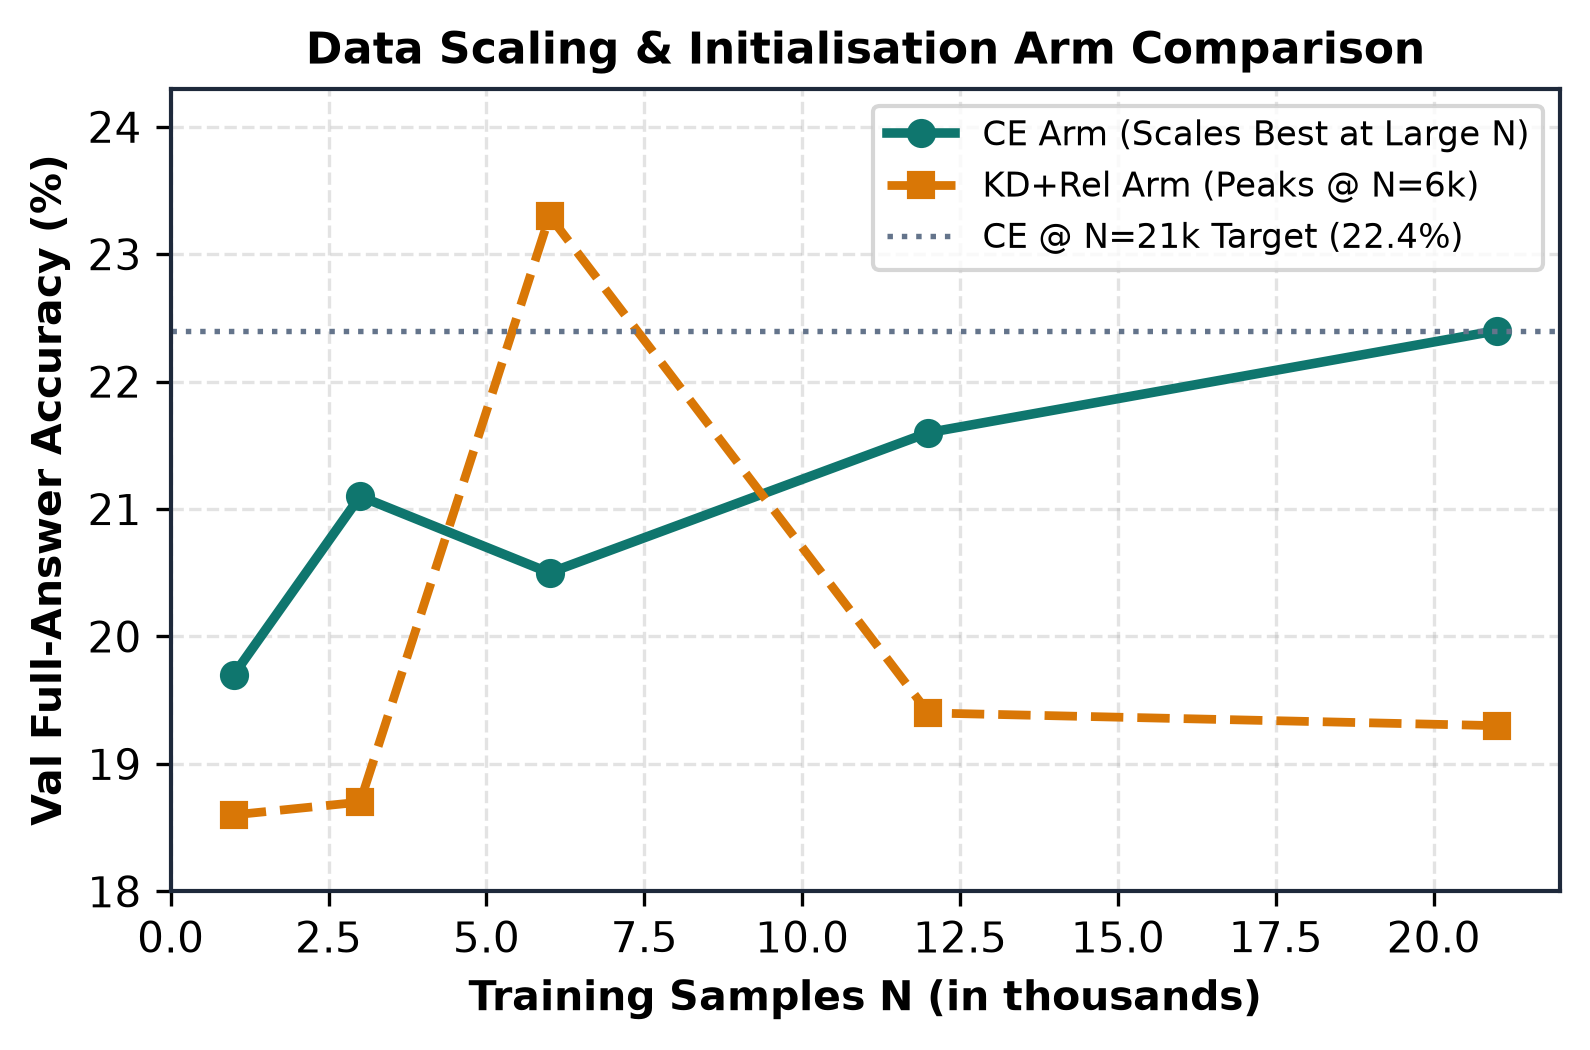
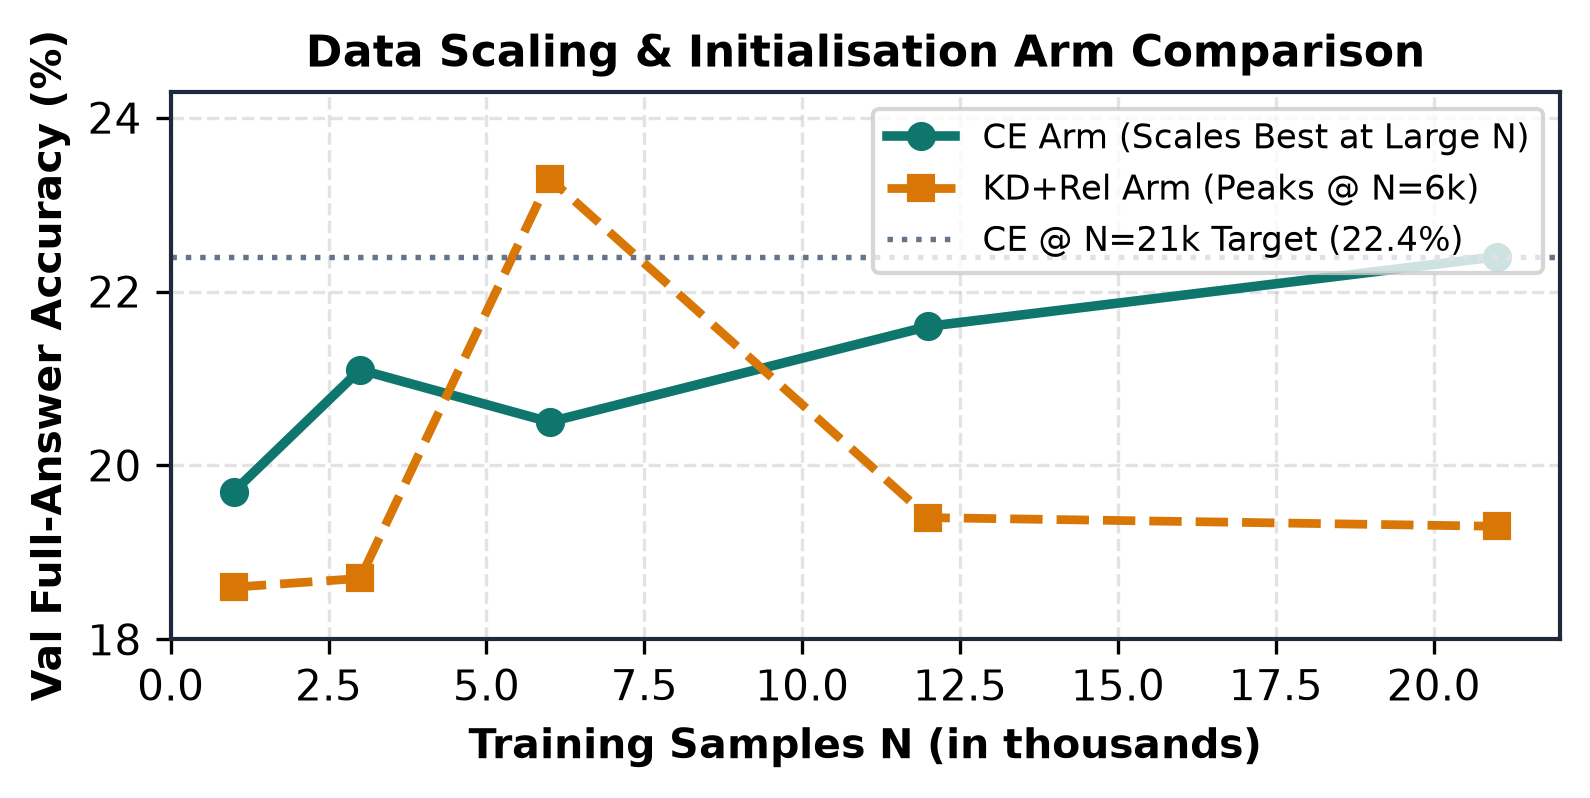
Fix intro question orphan, Sec.3 start, Tab.S2/Fig.S3 whitespace, and trailing lines

Changed region(s): [[0.0, 0.0301, 0.9862, 0.9624]]

diff --git a/paper/sections/X_suppl.tex b/paper/sections/X_suppl.tex
@@ -72,7 +72,7 @@ $9.70$ TFLOPs) to $101.9$\,ms ($19.9\%$ faster, $2.67$ TFLOPs, $-72.5\%$).
 For any text-only input ($I{=}\emptyset$), the rotation context and retrieval
 residual are bypassed (\texttt{rotation\_context} inactive), so every layer
 executes the exact unmodified linear weights $W_{\ell,p}$ of $f_\theta$ with
-$\max|\Delta\text{logits}|=0.0$ and zero extra KV-cache storage or decoding overhead.
+$\max|\Delta\text{logits}|=0.0$ and zero extra KV-cache storage or runtime overhead.
 
 \section{Training Mixtures and Hyperparameters}
 \label{sec:supp_data}
@@ -97,6 +97,7 @@ reference runs and the $44$k strictly audited runs ($1.7$B student,
 $392{\times}392$ max resolution, $b{=}64$, $d_q{=}256$).}
 \label{tab:supp_hparams}
 \footnotesize
+\renewcommand{\arraystretch}{1.22}
 \setlength{\tabcolsep}{3.0pt}
 \resizebox{\columnwidth}{!}{%
 \begin{tabular}{@{}lccc@{}}
@@ -119,11 +120,25 @@ which adds top-$K$ teacher logit KL ($0.5\mathcal{L}_{\mathrm{KD}}$,
 $\tau{=}2.0$) and projected hidden-state cosine alignment
 ($0.1\mathcal{L}_{\mathrm{rel}}$ across matched intermediate layers) during
 Stage~1 and Stage~3; while \texttt{KD+Rel} peaks earlier at $6$k samples,
-\texttt{ce} scales monotonically to $21$k and is used for all $44$k runs. Every
-training run uses AdamW with cosine decay on an exclusive $46$GB GPU.
+\texttt{ce} scales monotonically to $21$k and is used for all $44$k runs. Across
+all $44$k runs, RVE adds $2.40$M parameters ($K{=}4$) and SAVM adds
+lightweight query-conditioned rotation and spatial retrieval heads with the
+student backbone frozen. All runs use AdamW with cosine decay on a $46$GB GPU.
 
 \section{Extended Ablations and Multi-Seed Audits}
 \label{sec:supp_abl}
+
+Tab.~\ref{tab:supp_front}--\ref{tab:supp_fgen} and
+Fig.~\ref{fig:supp_mainres}--\ref{fig:supp_eff} provide the full frontend,
+scaling, depth, format-boundary, multi-seed, and \texttt{--force-gen} results moved from the
+main paper. In Tab.~\ref{tab:supp_v6seeds}, when an external frozen ViT supplies
+mature features (\emph{Tower}), continuing \texttt{CA-Only} ($R_0$) remains a
+competitive reference ($19.89\%$ Avg6), whereas bounded multi-frequency
+\texttt{qcond} rotations drive consistent $R_1{\to}R_2{\to}R_3$ multi-seed gains
+($19.31\%{\to}19.52\%{\to}19.61\%$ Avg6), top single-seed and \texttt{--force-gen}
+performance ($R_2$ $20.18\%$ Avg6; $R_3$ $40.89\%$/$41.33\%$ MC2 in
+Tab.~\ref{tab:supp_fgen}), and prove decisive once the external vision tower is
+removed ($S_2$ over $F_2$: $1.155$ vs.\ $1.835$ CE, $40.8\%$ vs.\ $26.4\%$ EM).
 
 \begin{figure*}[t]
 \centering
@@ -311,18 +326,6 @@ Unbounded Rot ($A_3$)   & 13.07 & 10.52 &  8.20 & 11.79 & \textbf{99.97\%} &  0.
 \bottomrule
 \end{tabular}}
 \end{table}
-
-Tab.~\ref{tab:supp_front}--\ref{tab:supp_fgen} and
-Fig.~\ref{fig:supp_mainres}--\ref{fig:supp_eff} provide the full frontend,
-scaling, depth, format-boundary, multi-seed, and \texttt{--force-gen} results moved from the
-main paper. In Tab.~\ref{tab:supp_v6seeds}, when an external frozen ViT supplies
-mature features (\emph{Tower}), continuing \texttt{CA-Only} ($R_0$) remains a
-competitive reference ($19.89\%$ Avg6), whereas bounded multi-frequency
-\texttt{qcond} rotations drive consistent $R_1{\to}R_2{\to}R_3$ multi-seed gains
-($19.31\%{\to}19.52\%{\to}19.61\%$ Avg6), top single-seed and \texttt{--force-gen}
-performance ($R_2$ $20.18\%$ Avg6; $R_3$ $40.89\%$/$41.33\%$ MC2 in
-Tab.~\ref{tab:supp_fgen}), and prove decisive once the external vision tower is
-removed ($S_2$ over $F_2$: $1.155$ vs.\ $1.835$ CE, $40.8\%$ vs.\ $26.4\%$ EM).
 
 \section{Fine-Grained Category and Error Diagnostics}
 \label{sec:supp_cats}

diff --git a/paper/sections/4_experiments.tex b/paper/sections/4_experiments.tex
@@ -30,7 +30,7 @@ candidate-string likelihood across all main tables, while open-ended items use
 unified greedy decoding (no per-benchmark token bans) with official relaxed
 metrics; full free-form audits (\texttt{--force-gen}) appear in
 Tab.~\ref{tab:supp_fgen}. We report \emph{MC2} (MMStar, HallusionBench),
-\emph{Core3} (+MathVista), and \emph{Avg6} (mean across all six tasks).
+\emph{Core3} (+MathVista), and \emph{Avg6} (average across all six evaluation tasks).
 
 \paragraph{Baselines and implementation.}
 All baselines share the frozen $1.7$B backbone, data, $392{\times}392$
@@ -289,4 +289,4 @@ $K{=}4$ LoRA ($S_1$) on CE, EM, gap, and MMStar ($28.87\%$ vs.\ $27.93\%$).
 (3) Step~2 over $S_2$ reaches $40.94\%$ MC2 / $35.32\%$ Core3 ($99.6\%$ of
 LLaVA-Proj) via $M_0/M_1$, while \texttt{Fwd-KL VL-OPD} ($M_2$) achieves the
 highest validation EM ($40.8\%$) and top tower-free MathVista ($24.90\%$),
-showing competitive accuracy with zero deep visual tokens or weight updates.
+showing competitive accuracy with zero deep visual tokens and an untouched LLM.

diff --git a/paper/sections/1_intro.tex b/paper/sections/1_intro.tex
@@ -64,12 +64,10 @@ Moreover, adapting shared language layers can compromise the original
 text behavior: updating shared parameters or permanently merging visual
 adapters changes the computation used for text-only
 inputs~\citep{diao2024eve,vora2025}.
-These limitations motivate a unified question:
-
-\emph{Can a pretrained text LLM acquire visual understanding with no
-external vision tower at inference, no visual tokens in deeper
-self-attention, and bit-exact preservation of its original text-only
-computation and behavior?}
+These limitations motivate a central design question: \emph{can a pretrained
+text LLM acquire visual understanding with no external vision tower at
+inference, no visual tokens in deeper self-attention, and bit-exact
+preservation of its original text-only computation and behavior?}
 
 To meet these requirements, we present
 \textbf{Spin Vision-Language Adaptation (\modelname)} (Figure~\ref{fig:teaser}(c)), a dual-tier

diff --git a/paper/sections/2_related.tex b/paper/sections/2_related.tex
@@ -67,5 +67,5 @@ sequences, and GKD~\citep{agarwal2024gkd} matches teacher and student
 distributions on student rollouts with a choice of divergence.
 Building on on-policy distillation, \modelname{} combines image-conditioned
 forward KL with gold-answer supervision to refine its rotational visual
-interface on student rollouts, addressing exposure bias without
-updating the frozen language backbone or adding extra test-time modules.
+interface on student rollouts, addressing exposure bias while keeping the
+language backbone frozen and inference computation unchanged.

diff --git a/scripts/plot_exp_highlights.py b/scripts/plot_exp_highlights.py
@@ -118,7 +118,7 @@ def plot_fig3():
 
 
 def plot_data_scaling():
-    fig, ax = plt.subplots(figsize=(5.4, 3.6), dpi=300)
+    fig, ax = plt.subplots(figsize=(5.4, 2.75), dpi=300)
     Ns = [1, 3, 6, 12, 21]
     ce_acc = [19.7, 21.1, 20.5, 21.6, 22.4]
     rel_acc = [18.6, 18.7, 23.3, 19.4, 19.3]

diff --git a/verify.md b/verify.md
@@ -10,13 +10,13 @@
 
 ### 1. CVPR 页数红线（已达标）
 - **CVPR 规则**：正文（`References` 之前的所有章节与图表）**严格 $\le 8.0$ 页**，`References` 页数不限，`X_suppl.tex` 作为补充材料单独提交。
-- **Overleaf 最新编译实测（13 页合编 PDF，`spinvl (7).pdf` / `paper/main.pdf`）**：
-  - `Abstract + 1. Intro + 2. Related`：Pages 1–3 上（`~2.2` 页）
+- **Overleaf 最新编译实测（13 页合编 PDF，`spinvl (14).pdf`）**：
+  - `Abstract + 1. Intro + 2. Related`：Pages 1–3 上（已合并 `1. Intro` 原孤立的 `a unified question:` 断行与短问句段，修正 `2. Related` 尾行并让 `3. Method / 3.1. Overview` 在第 3 页左下顺畅起段）
   - `3. Method`：Pages 3 上–6 上（含合作者拆分扩展的 `Eq. (1)–(17)` 与新版 `Fig. 2`；已将 `Inference and complexity` 迁至附录 `Sec. S1`）
   - `4. Experiments`：Pages 6 上–8 中（保留 `Tab. 1–3` 与新增跨双栏主图 **`Fig. 3`**）
   - `5. Conclusion` + `LLM Usage.`：Page 8 中下（正文与 `LLM Usage` 均在 **Page 8 结束**，严格 $\le 8.0$ 页！）
   - `References`：Page 8 底–Page 10（`[1]–[45]` 全部无误）
-  - `Supplementary Material`：Pages 11–13（`S1–S4`，`Tab. S1–S9`，`Fig. S1–S3`）
+  - `Supplementary Material`：Pages 11–13（`S1–S4`，`Tab. S1–S9`，`Fig. S1–S3`；第 11 页 `Tab. S2` 下方留白与第 12 页跨页孤行已消除，`Tab. S4` 已去方差下标，`Fig. S3` 移至第 13 页左栏与 `Tab. S9` 左右对称收尾）
   - **交稿前拆页提示**：下载编译 PDF 后，将 Pages 1–10 拆为 `main.pdf` 提交主稿，Pages 11–13 拆为 `supp.pdf` 提交补充材料（或注释 `main.tex` 第 47 行 `\input{sec/X_suppl}` 后分别导出）。
 
 ### 2. 效率口径策略：方案 A（已落地）
